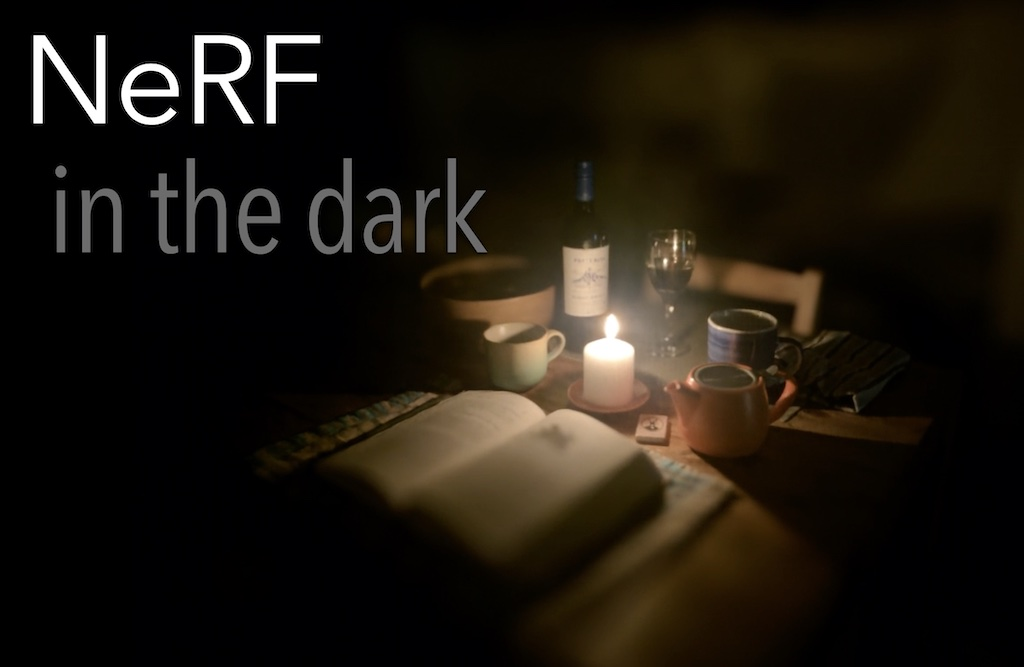
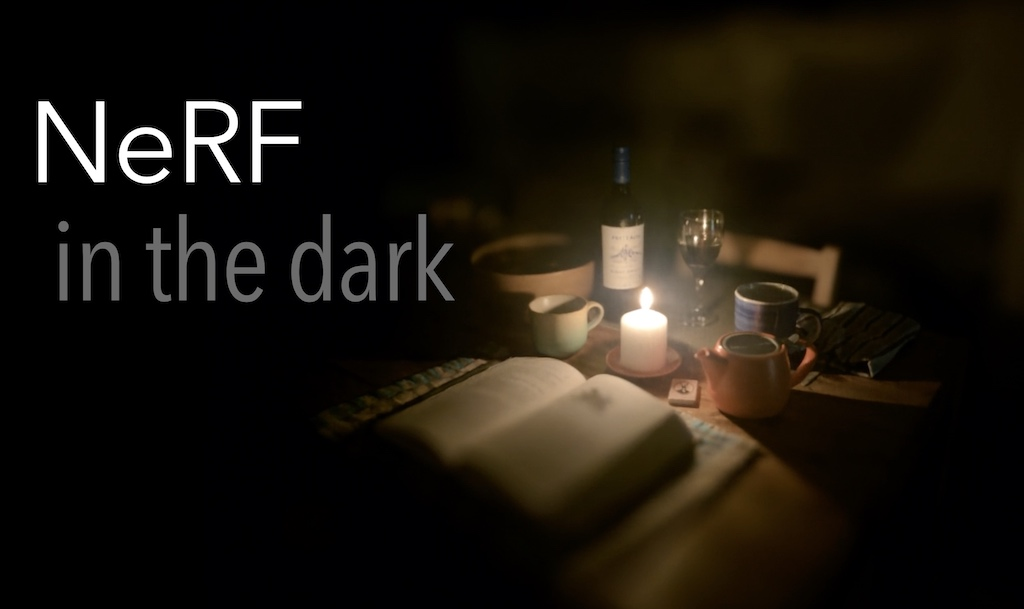
adjust teaser image

diff --git a/rawnerf/index.html b/rawnerf/index.html
@@ -17,7 +17,7 @@
     <meta property="og:image" content="https://bmild.github.io/rawnerf/img/titlecard-basic.jpg">
     <meta property="og:image:type" content="image/jpeg">
     <meta property="og:image:width" content="1024">
-    <meta property="og:image:height" content="667">
+    <meta property="og:image:height" content="609">
     <meta property="og:type" content="website" />
     <meta property="og:url" content="https://bmild.github.io/rawnerf"/>
     <meta property="og:title" content="NeRF in the Dark (RawNeRF)" />
